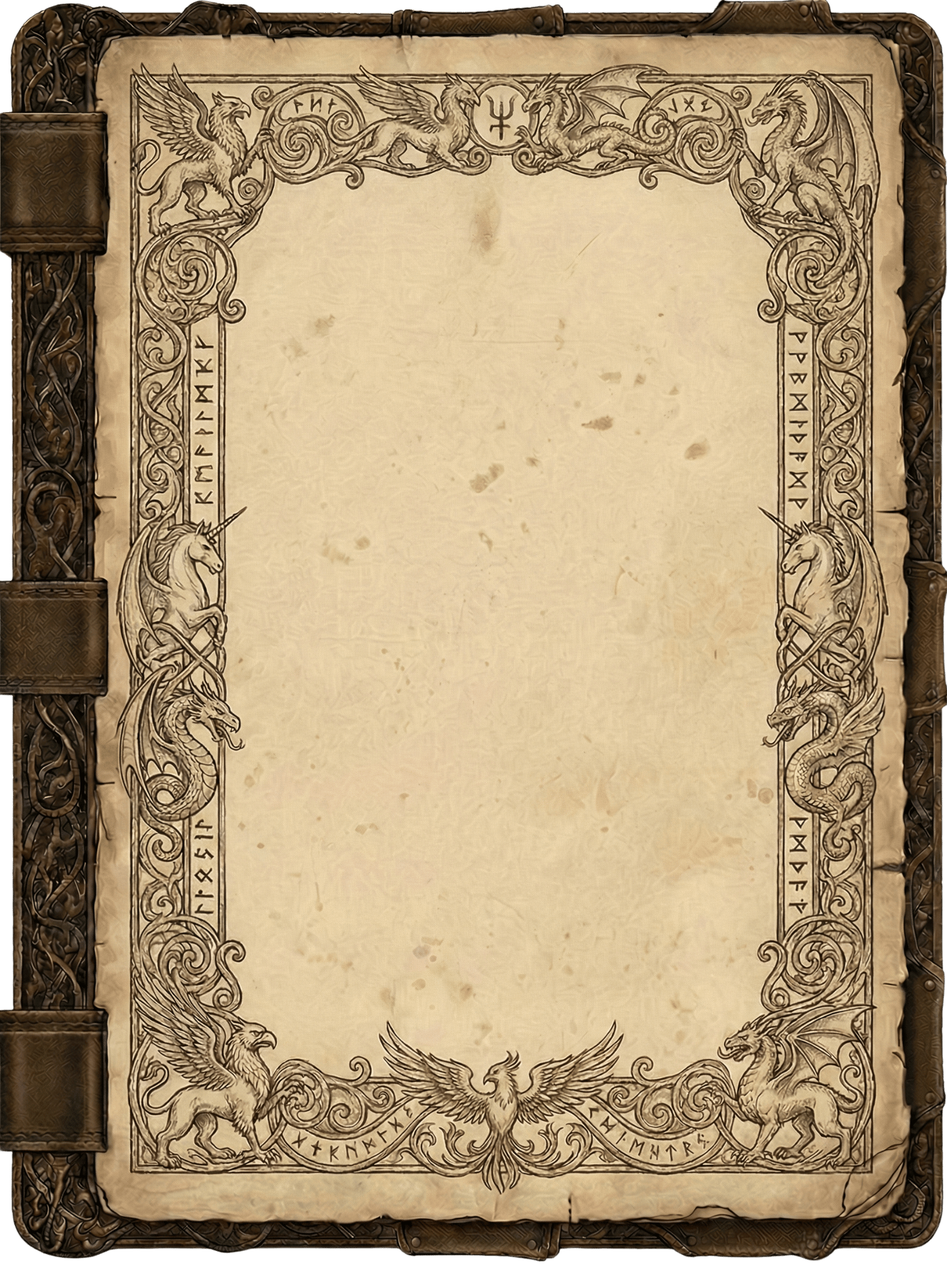
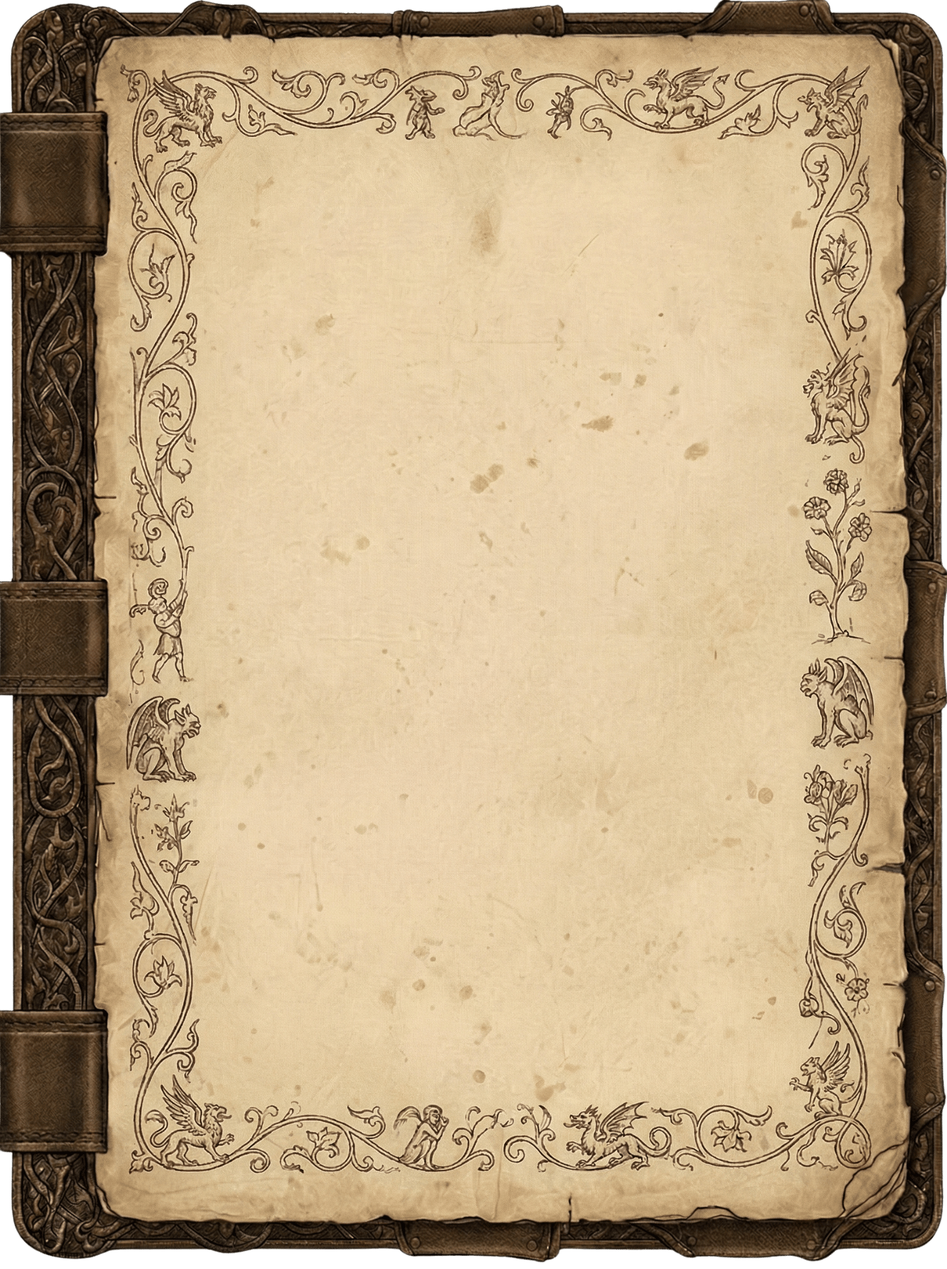
digital servitor

Changed region(s): [[0.0, 0.0, 1.0, 1.0]]

diff --git a/src/app/grimoire/page.tsx b/src/app/grimoire/page.tsx
@@ -28,89 +28,7 @@ interface SpellMetadata {
 
 // --- ASSETS & RANDOMIZATION ---
 
-const SPRITE_ASSETS: Record<string, string[]> = {
-    symbols: ['symbols1.png', 'symbols2.png', 'symbols3.png'],
-    tools: ['tools .png', 'tools1.png', 'tools3.png', 'tools4.png'],
-    astrology: ['astrology.png'],
-    crystals: ['crystals.png'],
-    deities: ['deities1.jpeg', 'deities2.jpeg', 'deities3.png'],
-    foods: ['foods.png'],
-    herbs: ['herbs2.png', 'herbs3.png', 'herbs4.png'],
-    offerings: ['offerings1.png', 'offerings2.png', 'offerings3.png', 'offerings4.png'],
-    runes: ['runes.png']
-};
 
-const CATEGORIES = Object.keys(SPRITE_ASSETS);
-
-// Helper to get random sprites based on a seed (stable per page)
-const getPageSprites = (seedKey: string) => {
-
-
-    // Cleaned up hash function
-    const sToN = (str: string) => {
-        let hash = 0;
-        for (let i = 0; i < str.length; i++) {
-            hash = str.charCodeAt(i) + ((hash << 5) - hash);
-        }
-        return Math.abs(hash);
-    };
-
-    const seed = sToN(seedKey);
-    const rand = (offset: number) => {
-        const x = Math.sin(seed + offset) * 10000;
-        return x - Math.floor(x);
-    };
-
-    // 1. Pick 3-4 sprites
-    const count = 3 + Math.floor(rand(1) * 2); // 3 or 4
-    
-    // 2. Pick unique categories
-    const shuffledCats = [...CATEGORIES].sort((a, b) => rand(a.length) - 0.5);
-    const selectedCats = shuffledCats.slice(0, count);
-
-    // 3. Generate Props
-    return selectedCats.map((cat, i) => {
-        const images = SPRITE_ASSETS[cat];
-        const imgIndex = Math.floor(rand(i + 10) * images.length);
-        const image = images[imgIndex];
-        
-        // Pick a random sprite from the 4x4 sheet (0-15)
-        const spriteIndex = Math.floor(rand(i + 99) * 16);
-        
-        // Zones: 0:TL, 1:TR, 2:BL, 3:BR (Effectively corners of the content container)
-        const zone = i % 4; 
-        
-        let position: React.CSSProperties = {};
-        const base = 2; // base padding %, close to edge but not touching
-
-        if (zone === 0) { // TL
-            position = { top: `${base + rand(i)*15}%`, left: `${base + rand(i+1)*10}%` };
-        } else if (zone === 1) { // TR
-            position = { top: `${base + rand(i)*15}%`, right: `${base + rand(i+1)*10}%` };
-        } else if (zone === 2) { // BL
-            position = { bottom: `${base + rand(i)*15}%`, left: `${base + rand(i+1)*10}%` };
-        } else { // BR
-            position = { bottom: `${base + rand(i)*15}%`, right: `${base + rand(i+1)*10}%` };
-        }
-
-        const rotation = (rand(i + 30) * 40) - 20; // -20 to 20
-        const scale = 0.8 + (rand(i + 40) * 0.4); // 0.8 to 1.2
-        const width = 12 + (rand(i + 50) * 8); // 12% to 20% width relative to container
-
-        return {
-            src: `/images/grimoire-images/sprite-sheets/${image}`,
-            style: {
-                ...position,
-                transform: `rotate(${rotation}deg) scale(${scale})`,
-                width: `${width}%`,
-                opacity: 0.85, 
-                zIndex: 0 
-            },
-            id: `${cat}-${i}`,
-            spriteIndex
-        };
-    });
-};
 
 
 // --- HELPER LOGIC ---
@@ -242,15 +160,7 @@ export default function GrimoirePage() {
     const totalPages = activeSection ? Math.ceil(activeSection.spells.length / itemsPerPage) : 0;
     const currentPage = pageOffset + 1;
 
-    // Sprite Generation (Top Level to avoid Hook Rule violations)
-    const spriteSeed = viewMode === 'SECTION' 
-            ? `${activeSectionId}-${pageOffset}`
-            : viewMode === 'TOC' ? 'TOC-PAGE' : 'COVER';
 
-    const pageSprites = useMemo(() => {
-        if (viewMode === 'COVER') return [];
-        return getPageSprites(spriteSeed);
-    }, [spriteSeed, viewMode]);
 
     // --- NAVIGATION HANDLERS ---
     
@@ -372,32 +282,7 @@ export default function GrimoirePage() {
                             height: '82.86%'
                         }}
                     >
-                       {/* Decorative Sprites Layer - Behind Content */}
-                       {pageSprites.map(sprite => {
-                           // Calculate Sprite Sheet Offset (4x4 Grid)
-                           const col = sprite.spriteIndex % 4;
-                           const row = Math.floor(sprite.spriteIndex / 4);
-                           
-                           return (
-                               <div 
-                                   key={sprite.id} 
-                                   className="absolute aspect-square pointer-events-none mix-blend-multiply overflow-hidden" 
-                                   style={sprite.style}
-                               >
-                                   {/* Inner Image scaled to 400% and shifted */}
-                                   <div className="relative w-[400%] h-[400%]" style={{
-                                        transform: `translate(-${col * 25}%, -${row * 25}%)`
-                                   }}>
-                                       <Image 
-                                           src={sprite.src} 
-                                           alt="decoration" 
-                                           fill 
-                                           className="object-contain" 
-                                       />
-                                   </div>
-                               </div>
-                           );
-                       })}
+
 
                        {/* Actual Content */}
                        <div className="relative z-10 w-full h-full flex flex-col">
